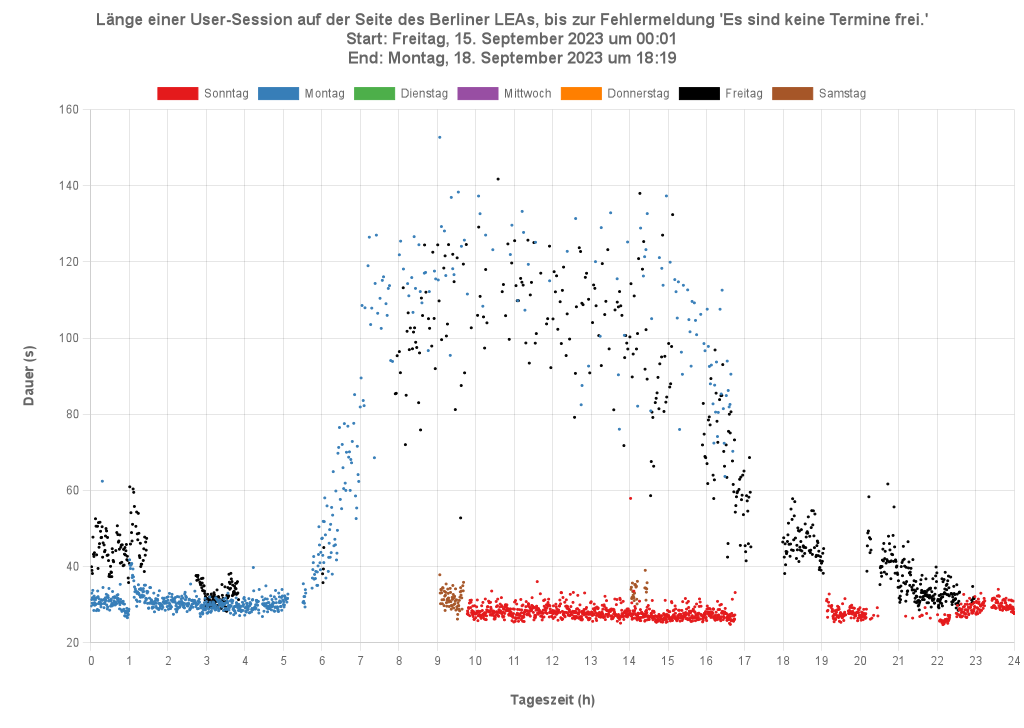
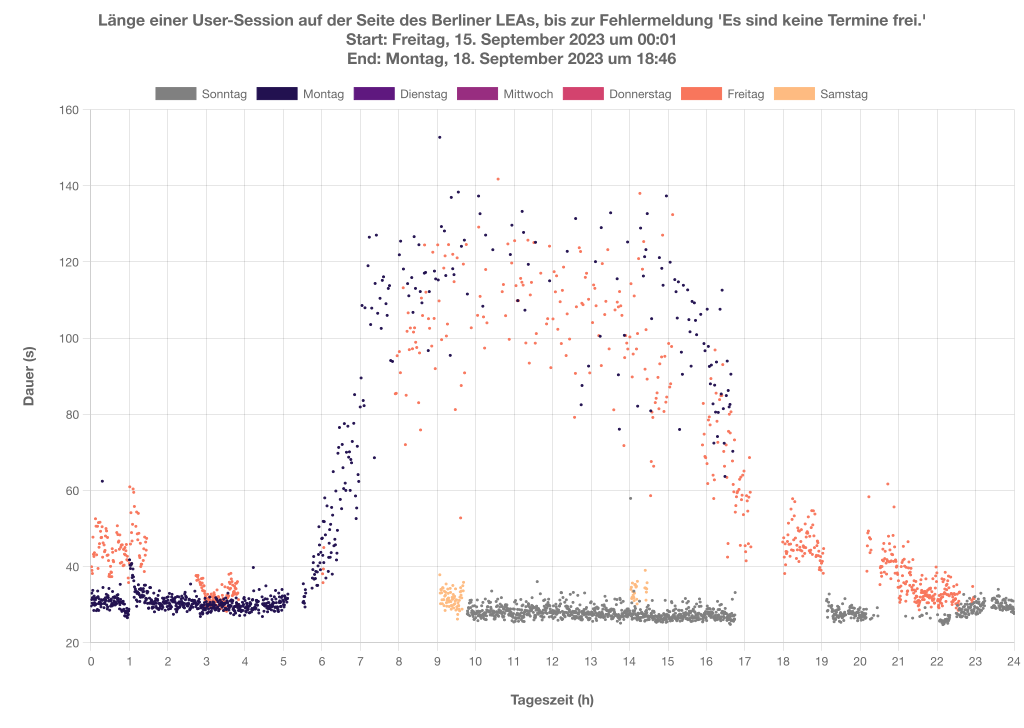
New color palettes, new data.

diff --git a/src/constants.ts b/src/constants.ts
@@ -23,10 +23,13 @@ export const VERY_LONG_TIME = new TimeDuration(30, TimeUnit.Seconds);
 export const VERY_VERY_LONG_TIME = new TimeDuration(1, TimeUnit.Minutes);
 export const INFINITE_TIME = new TimeDuration(2, TimeUnit.Minutes); // More than 2 minutes in Internet terms is an eternity...
 
-export const WEEKDAY_COLORS_1 = ['#e41a1c','#377eb8','#4daf4a','#984ea3','#ff7f00','#000000','#a65628'];
-export const WEEKDAY_COLORS_2 = ['#8dd3c7','#ffffb3','#bebada','#fb8072','#80b1d3','#fdb462','#b3de69'];
-export const WEEKDAY_COLORS_3 = ['#66c2a5','#fc8d62','#8da0cb','#e78ac3','#a6d854','#ffd92f','#e5c494'];
-export const WEEKDAY_COLORS_4 = ['#7fc97f','#beaed4','#fdc086','#ffff99','#386cb0','#f0027f','#bf5b17'];
+export const COLOR_GRAY = '#808080';
+
+export const PALETTE_ROCKET = [COLOR_GRAY, '#35193e', '#701f57', '#ad1759', '#e13342', '#f37651', '#f6b48f'];
+export const PALETTE_INFERNO = [COLOR_GRAY, '#280b53', '#65156e', '#9f2a63', '#d44842', '#f57d15', '#fac228'];
+export const PALETTE_MAGMA = [COLOR_GRAY, '#221150', '#5f187f', '#982d80', '#d3436e', '#f8765c', '#febb81'];
+export const PALETTE_PLASMA = [COLOR_GRAY, '#5302a3', '#8b0aa5', '#b83289', '#db5c68', '#f48849', '#febd2a'];
+export const PALETTE_FLARE = [COLOR_GRAY, '#e98d6b', '#e3685c', '#d14a61', '#b13c6c', '#8f3371', '#6c2b6d'];
 
 export enum LogMessages {
     UnknownError = 'An unknown error occurred.',

diff --git a/src/config.ts b/src/config.ts
@@ -1,7 +1,7 @@
 import { Locale } from './types';
 import { getEnvironmentVariable, loadEnvironment } from './utils/env';
 import { parseBooleanText } from './utils/string';
-import { TEN_MINUTES, WEEKDAY_COLORS_1, WEEKDAY_COLORS_2, WEEKDAY_COLORS_4 } from './constants';
+import { PALETTE_INFERNO, PALETTE_MAGMA, PALETTE_PLASMA, TEN_MINUTES } from './constants';
 import { NoAppointmentsError, NoInformationError, InternalServerError, ElementMissingFromPageError, InfiniteSpinnerError, UIError } from './errors';
 
 export const ENV = loadEnvironment();
@@ -22,7 +22,7 @@ export const CITIZENSHIP = getEnvironmentVariable('CITIZENSHIP');
 export const NUMBER_OF_APPLICANTS = getEnvironmentVariable('NUMBER_OF_APPLICANTS');
 export const WITH_RELATIVES = getEnvironmentVariable('WITH_RELATIVES');
 
-export const WEEKDAY_COLORS = WEEKDAY_COLORS_1;
+export const WEEKDAY_COLORS = PALETTE_MAGMA;
 
 export const LONG_DATE_TIME_FORMAT_OPTIONS = {
     weekday: 'long',
